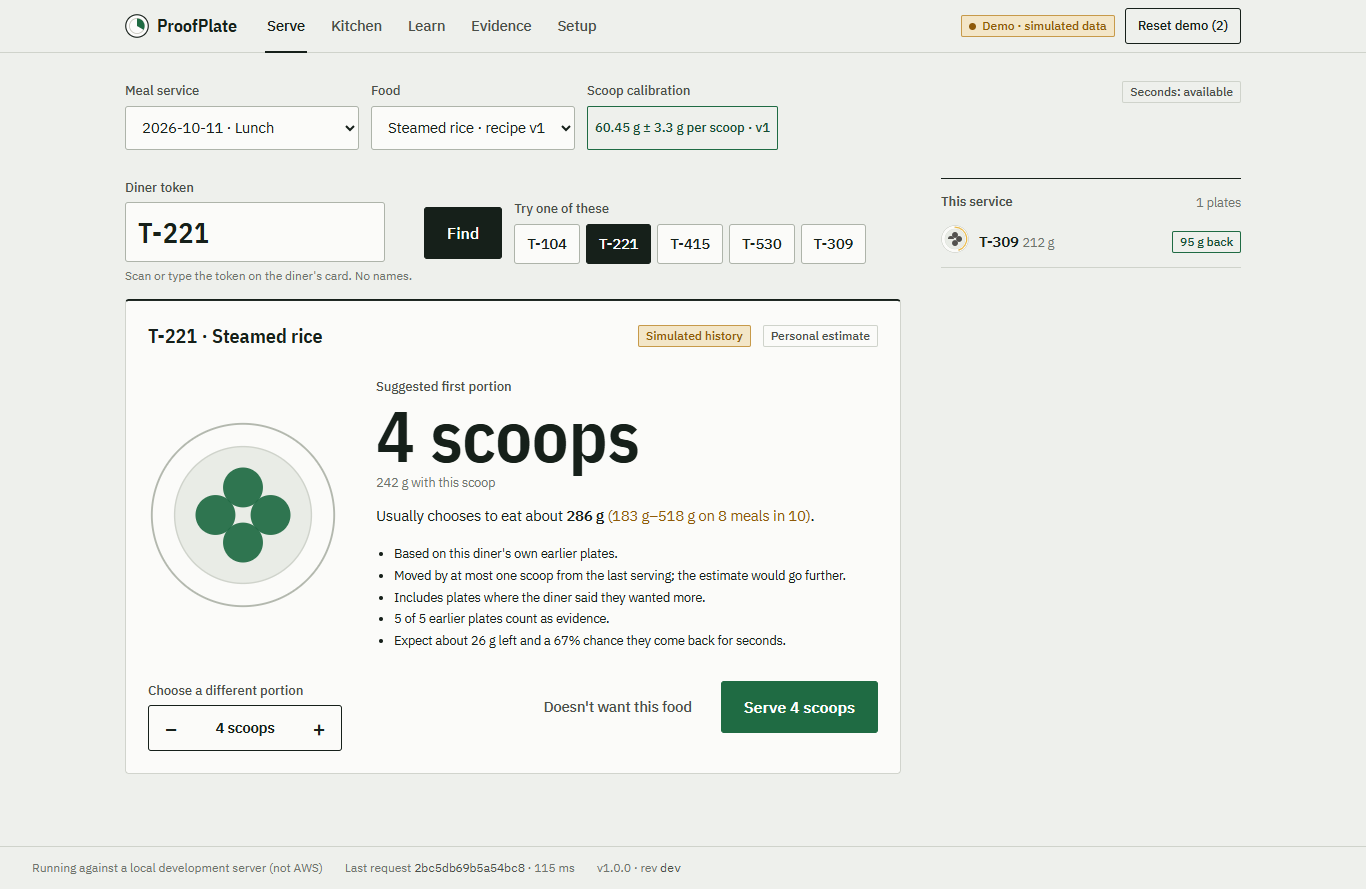
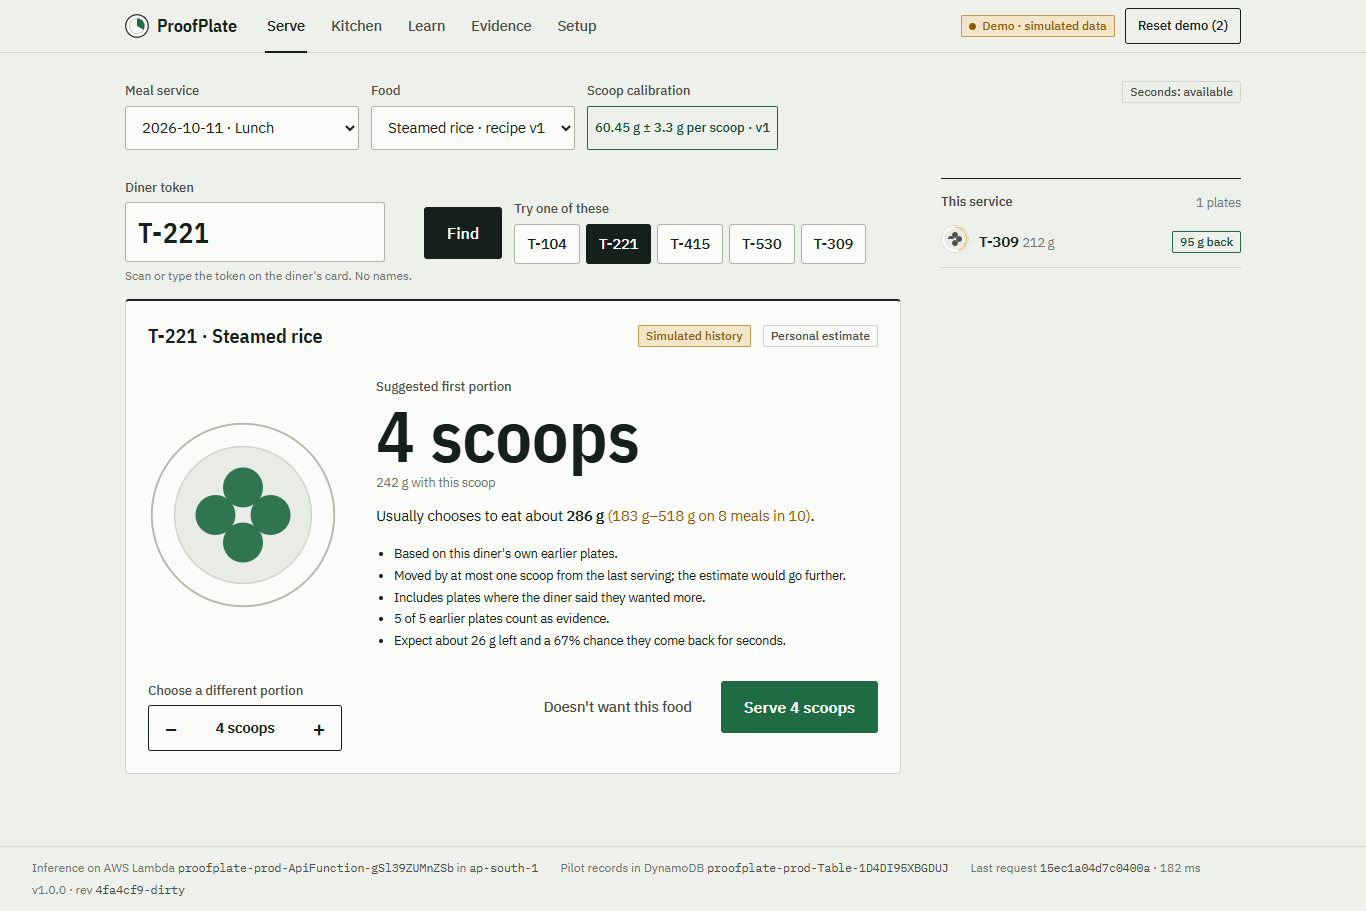
Document the redesign and photo estimate; set region in the deploy script

diff --git a/tests/e2e/photo_flow.py b/tests/e2e/photo_flow.py
@@ -62,6 +62,7 @@ def main() -> None:
         assert read_estimate(page)[0] == 0, "an empty plate should read as 0 g"
 
         page.locator(".photo").get_by_role("button", name="About a scoop left", exact=True).click()
+        expect(page.locator(".readout .figure")).to_have_text(re.compile(r"^2\d g$"))   # wait for this photo's result, not the last one
         expect(page.get_by_role("button", name=re.compile(r"^Use \d+ g as the returned amount"))).to_be_visible()
         page.get_by_role("button", name=re.compile(r"^Use \d+ g as the returned amount")).click()
         expect(page.get_by_role("button", name=re.compile(r"Photo estimate ± \d+ g"))).to_be_visible()

diff --git a/SUBMISSION.md b/SUBMISSION.md
@@ -23,6 +23,7 @@ A working tool for the serving counter and the kitchen manager.
 1. **Calibrate** the serving scoop for a dish by weighing about twenty scoops.
 2. **Suggest** each diner's first portion, with the likely range and the reason. The diner can always ask for something else, and seconds are always one tap away.
 3. **Record** seconds, the grams left on the plate, and one question: *was that enough?*
+3b. **Measure by photo when there is no scale.** Photograph the empty plate once, calibrate against a few weighed plates, then estimate leftovers from a photo. The estimate carries its own uncertainty into the model and is labelled as a photo estimate; photos are analysed in the browser and never uploaded.
 4. **Learn** correctly. "Enough" means appetite was about this much. "Wanted more" means at least this much, and can only raise an estimate. Unclear plates, and leftovers caused by dislike or interruption, are recorded but do not move anyone's estimate.
 5. **Plan the kitchen**: how much to cook before service, how much to hold in reserve, when to start each batch, and the modelled chance of running short. When stock or the refill station cannot support the plan, the app says "not feasible" and why. It never quietly lowers its own target.
 6. **Show the evidence** split into observed, predicted and simulated, each with its sample size.
@@ -76,12 +77,14 @@ These are properties of a simulator built on stated assumptions. They are not me
 
 ## Verification
 
-- 79 automated tests pass: numerics against SciPy, likelihoods against analytic values, censoring behaviour, policy and planner constraints, mass balance, idempotency, corrections, tenant isolation, demo/pilot isolation, and one storage contract run against in-memory, SQLite and DynamoDB (moto) adapters.
+- 80 automated Python tests and 8 photo-estimate unit tests pass: numerics against SciPy, likelihoods against analytic values, censoring behaviour, policy and planner constraints, mass balance, idempotency, corrections, tenant isolation, demo/pilot isolation, and one storage contract run against in-memory, SQLite and DynamoDB (moto) adapters.
+- A scripted Chrome flow checks the photo estimate against generated truth, and records a return from it.
 - A scripted Chrome walkthrough covers serve → seconds → return → changed suggestion → kitchen recompute → infeasible plan → evidence export, at desktop and phone widths.
 - Deployed to AWS ap-south-1 and checked from outside: public demo walkthrough and a Cognito-signed-in pilot flow against DynamoDB, plus tenant-isolation and auth-failure checks. Results, and what was not verified, are in `DEPLOYMENT.md`.
 
 ## Limitations
 
+- The photo estimate is classical image arithmetic and has only been checked on generated images. It needs a fixed camera and a plate that contrasts with the food, and has not been validated on real photographs.
 - No field data. Effect in a real mess is unproven.
 - One food at a time, weighed separately. Mixed plates are out of scope.
 - Satisfaction is self-reported and can be wrong.

diff --git a/DEMO_SCRIPT.md b/DEMO_SCRIPT.md
@@ -10,7 +10,7 @@ Everything in the demo is generated data. Say so once, early. Do not quote any f
 |---|---|---|
 | 0:00–0:18 | Landing page. Point at the two empty plates. | "A college mess decides the first portion before it knows how hungry each diner is. Too much gets thrown away; too little, and someone leaves hungry. And here is the catch: an empty plate looks the same whether the diner had enough or wanted more." |
 | 0:18–0:35 | **Try the demo** → Serve. Click **T-104**. | "This is ProofPlate, running on AWS. Everything in this demo is simulated data, and it is labelled. Diner T-104 was served three scoops six times and left about one each time. The suggestion is two scoops, with the range and the reason." |
-| 0:35–1:05 | Click **T-309**. **Serve 3½ scoops**. Type `95`, **Enough**, **Had enough**, **Save return**. | "A new diner has no history, so the suggestion comes from the cohort. We serve it. The plate comes back with 95 grams. We ask one question: was that enough? Save. That observation went through the API, into the model, and the next first portion dropped from three and a half scoops to two and a half." |
+| 0:35–1:05 | Click **T-309**. **Serve 3½ scoops**. Open **Estimate leftovers from a photo**, **Load generated sample photos**, tap **About a scoop left**, then **Use … g as the returned amount**. Choose **Enough**, **Had enough**, **Save return**. | "A new diner has no history, so the suggestion comes from the cohort. We serve it. When the plate comes back there is no scale handy, so we photograph it. The photo is compared with the empty plate and read as about 23 grams, with its uncertainty, and it never leaves the device. These sample images are generated; on a real counter this is the camera. Then the one question: was that enough? Save. That went through the API, into the model, and the next first portion changed." |
 | 1:05–1:20 | Click **T-221**. Press **−** once, **Serve**, then **+ ½ scoop**. | "T-221 finishes every plate and says they wanted more. So the suggestion goes up, not down. The diner can still ask for less, and seconds are one tap. A suggestion never overrides a request." |
 | 1:20–1:50 | **Learn**. Scroll to **Same empty plate, different evidence**. Click the three buttons in turn. | "This is the core idea. Same plate, same scale reading. If nobody asked, the model learns nothing. If they said enough, appetite was about this much. If they wanted more, it was at least this much, and the estimate can only go up. A plain average would treat all three the same and keep serving three scoops." |
 | 1:50–2:15 | **Kitchen**. Change **Expected diners** to 200. Then **Stock on hand** to 25. | "Those estimates roll up into the kitchen plan: how much to cook before service, how much to hold in reserve, and when to start each batch. Raise attendance and it recomputes. Cut the stock and it does not pretend: the plan is marked not feasible, with the reason and the options." |

diff --git a/DEPLOYMENT.md b/DEPLOYMENT.md
@@ -9,8 +9,8 @@
 | App and API | https://imh92ymqaa.execute-api.ap-south-1.amazonaws.com |
 | Region | ap-south-1 (Mumbai) |
 | Stack | `proofplate-prod` (CloudFormation, SAM) |
-| Deployed revision | `6c03208` (see `/api/health`) |
-| Deployed | 11 October 2026, about 22:28 IST |
+| Deployed revision | code at `4fa4cf9` (redesign and photo estimate); later commits are documentation only |
+| Deployed | 11 October 2026, redeployed about 22:57 IST (first deploy about 22:28) |
 
 **Why no CloudFront.** The first deploy failed at the CloudFront distribution: *"Your account must be verified before you can add new CloudFront resources"* (AWS Support verification is needed on a new account). The stack was rolled back and redeployed with `-NoCloudFront`. The web app is therefore served by the Lambda through the API Gateway HTTPS URL, which is a supported fallback in the template. The S3 bucket and Origin Access Control from the full design are not used in this deployment, and the web bucket created by the stack is empty. Once the account is verified, `scripts\deploy.ps1` without `-NoCloudFront` adds CloudFront and publishes the app to S3.
 
@@ -27,11 +27,14 @@
 | Pilot browser flow with real Cognito sign-in: calibrate, serve, seconds, return, changed suggestion, reload, correction, evidence, sign out | passed; records written to and read from DynamoDB |
 | Tenant isolation: operator of a second site | sees 0 foods, services and diners; a forged `site_id` in the body is rejected with 422 |
 | Warm latency from the build machine, Mumbai region, including network | demo bootstrap about 0.25 s; kitchen plan about 1.1 s |
-| Test data | a throwaway operator and records were used, then deleted; the table and user pool are empty |
+| Redesigned interface and photo estimate (second deploy) | public walkthrough passed at desktop and phone widths; photo flow passed (generated photos served from Lambda, estimates 11, 23 and 37 g against generated truth 10, 23 and 37 g); Cognito pilot flow passed again |
+| Self-hosted fonts and sample photos | served from the same origin (200) |
+| Test data | a throwaway operator and records were used each time, then deleted; the table and user pool are empty |
 
 ### Not verified
 
 - CloudFront, S3 publishing and the deep-link rewrite function (not created).
+- Photo estimates on real photographs of real food, or with a real camera on the deployed site. Only generated images were used.
 - Cold-start time (not measured separately).
 - Records surviving a redeploy: the table has a Retain policy and was not replaced by the second deploy, but a redeploy with data in it was not tested.
 - Deployment from a second AWS account.

diff --git a/MODEL_CARD.md b/MODEL_CARD.md
@@ -35,6 +35,19 @@ Implemented in `services/api/proofplate/domain/rules.py::classify`.
 
 The interval half-width comes from how the plate was measured: the scoop calibration's spread for scoop-estimated servings, the scale resolution for weighed returns, plus 3% for the behavioural assumption that "enough" means demand was about what was eaten.
 
+## Photo-assisted leftovers
+
+A scale reading is the default. As an option, the leftover amount can come from a photo of the returned plate. This is classical image arithmetic in the browser, not a learned model, and the photo never leaves the device.
+
+1. **Reference.** With the camera fixed over the return station, photograph the empty plate once.
+2. **Detect.** Inside an operator-placed circle on the plate, each pixel is compared with the reference after correcting exposure from the plate's outer rim. Pixels that changed by more than a noise-derived threshold (between 26 and 90 on a 0-441 colour distance) are food. Isolated specks are removed with a 3x3 majority filter.
+3. **Calibrate.** The share of the circle covered is mapped to grams with a power curve fitted to photos of plates the operator weighed (`grams = k * coverage^p`, `p` limited to 0.6-2.0). With three or more points the leave-one-out error is reported; with fewer, the stated uncertainty is wide.
+4. **Record.** The estimate is saved as measurement `photo_estimate` with its own standard deviation, which widens the censored interval around the amount eaten, so a photo estimate teaches the model less sharply than a weighed value.
+
+Guards: a weighed calibration plate that reads as empty is rejected (the food does not stand out from the plate); low contrast, a large lighting change, a nearly full plate and a mis-placed circle each raise a visible flag; editing the number by hand returns the record to "weighed".
+
+What it cannot do: it does not recognise food, estimate depth, or work on food that matches the plate colour (white rice on a white plate). It needs a fixed camera position and re-calibration when the plate type or camera moves. Accuracy was checked only on generated images (see `apps/web/src/photo.test.mjs`, `tests/e2e/photo_flow.py`); it has not been validated on real photographs of real food.
+
 ## The model
 
 D is lognormal with unknown location μ and spread σ. The posterior over (μ, σ) is held as normalised log-weights on a bounded grid: 72 values of μ covering 15 g to 1,200 g, and 30 values of σ from 0.06 to 1.0.

diff --git a/PROGRESS.md b/PROGRESS.md
@@ -24,7 +24,9 @@ Updated 11 October 2026, evening IST. Three statuses are kept apart on purpose.
 
 | Check | Command | Result |
 |---|---|---|
-| Unit, API and storage tests | `python -m pytest tests` | 79 passed |
+| Unit, API and storage tests | `python -m pytest tests` | 80 passed |
+| Photo-estimate unit tests | `node --test src/photo.test.mjs` in `apps/web` | 8 passed |
+| Photo flow in the browser (local and live) | `python tests/e2e/photo_flow.py <url>` | passed; estimates 11/23/37 g against generated truth 10/23/37 g |
 | Web type-check (request types generated from the API's OpenAPI schema) and production build | `npm run build` in `apps/web` | passed |
 | Demo browser walkthrough, desktop 1366 px and phone 390 px | `python tests/e2e/walkthrough.py http://127.0.0.1:8000` | passed; screenshots in `docs/screenshots/` |
 | Pilot browser flow (local dev sign-in, SQLite) | `python tests/e2e/pilot_flow.py http://127.0.0.1:8000 --user manager` | passed |
@@ -56,9 +58,14 @@ Not verified: anything on AWS, including the DynamoDB adapter against a real tab
 | Two-trip availability limit set to 50% | Chosen on development seeds 9001–9002 with `evaluation/explore_policy.py`, not on reported seeds |
 | Offline entry by paper sheet and CSV import, not an offline outbox | A half-reliable outbox loses data silently |
 
-## Not built (optional in the specification)
+## Added after the first deploy
 
-Photo attachments, camera plate matching, connected scale, bilingual text, offline outbox.
+- Interface redesign against `DESIGN.md` (self-hosted IBM Plex, ruled sections, stamped labels, underline navigation, phone-first Serve).
+- Photo-assisted leftover estimate: on-device background subtraction against an empty-plate reference, calibrated to grams on weighed plates, saved as `photo_estimate` with its uncertainty. Checked on generated images only.
+
+## Not built
+
+Photo storage (photos are deliberately never uploaded), recognition of food types, connected scale, bilingual text, offline outbox.
 
 ## Waiting on people
 

diff --git a/README.md b/README.md
@@ -32,6 +32,7 @@ A system that treats every empty plate as "that amount was right" keeps under-se
 - **Learn** — one diner's plates, how each was used, how the estimate moved, and "same empty plate, different evidence".
 - **Kitchen** — how much to cook before service, how much to hold in reserve, when to start each batch, the modelled chance of running short, and a clear *infeasible* state when stock or refill capacity cannot meet the plan.
 - **Evidence** — observed, predicted and simulated results kept apart, each with its sample size; CSV/JSON export; a print view.
+- **Photo estimate** — in the return form, estimate leftovers from a photo: empty-plate reference, calibration against weighed plates, on-device analysis, result saved as a labelled `photo_estimate` with its uncertainty.
 - **Setup** — scoop calibration, meal services, diner tokens (with export and deletion), and validated CSV import.
 
 Two workspaces that cannot touch each other:
@@ -98,6 +99,7 @@ python tests\e2e\walkthrough.py http://127.0.0.1:8000   # full browser flow, des
 
 ```powershell
 python scripts\make_demo_seed.py
+python scripts\make_sample_photos.py   # generated demo photos for the photo estimate
 python -m evaluation.run_evaluation
 python -m evaluation.run_frontier
 ```
@@ -129,6 +131,7 @@ Details, costs, verification and teardown: `DEPLOYMENT.md`.
 
 | File | What it covers |
 |---|---|
+| `DESIGN.md` | The interface design system and the research behind it |
 | `MODEL_CARD.md` | What is estimated, how plates become evidence, priors, policy, limits |
 | `EVALUATION.md` | Simulated policy comparison and frontier, with intervals |
 | `DATA_MANIFEST.md` | Every dataset and its provenance; retention and deletion |
